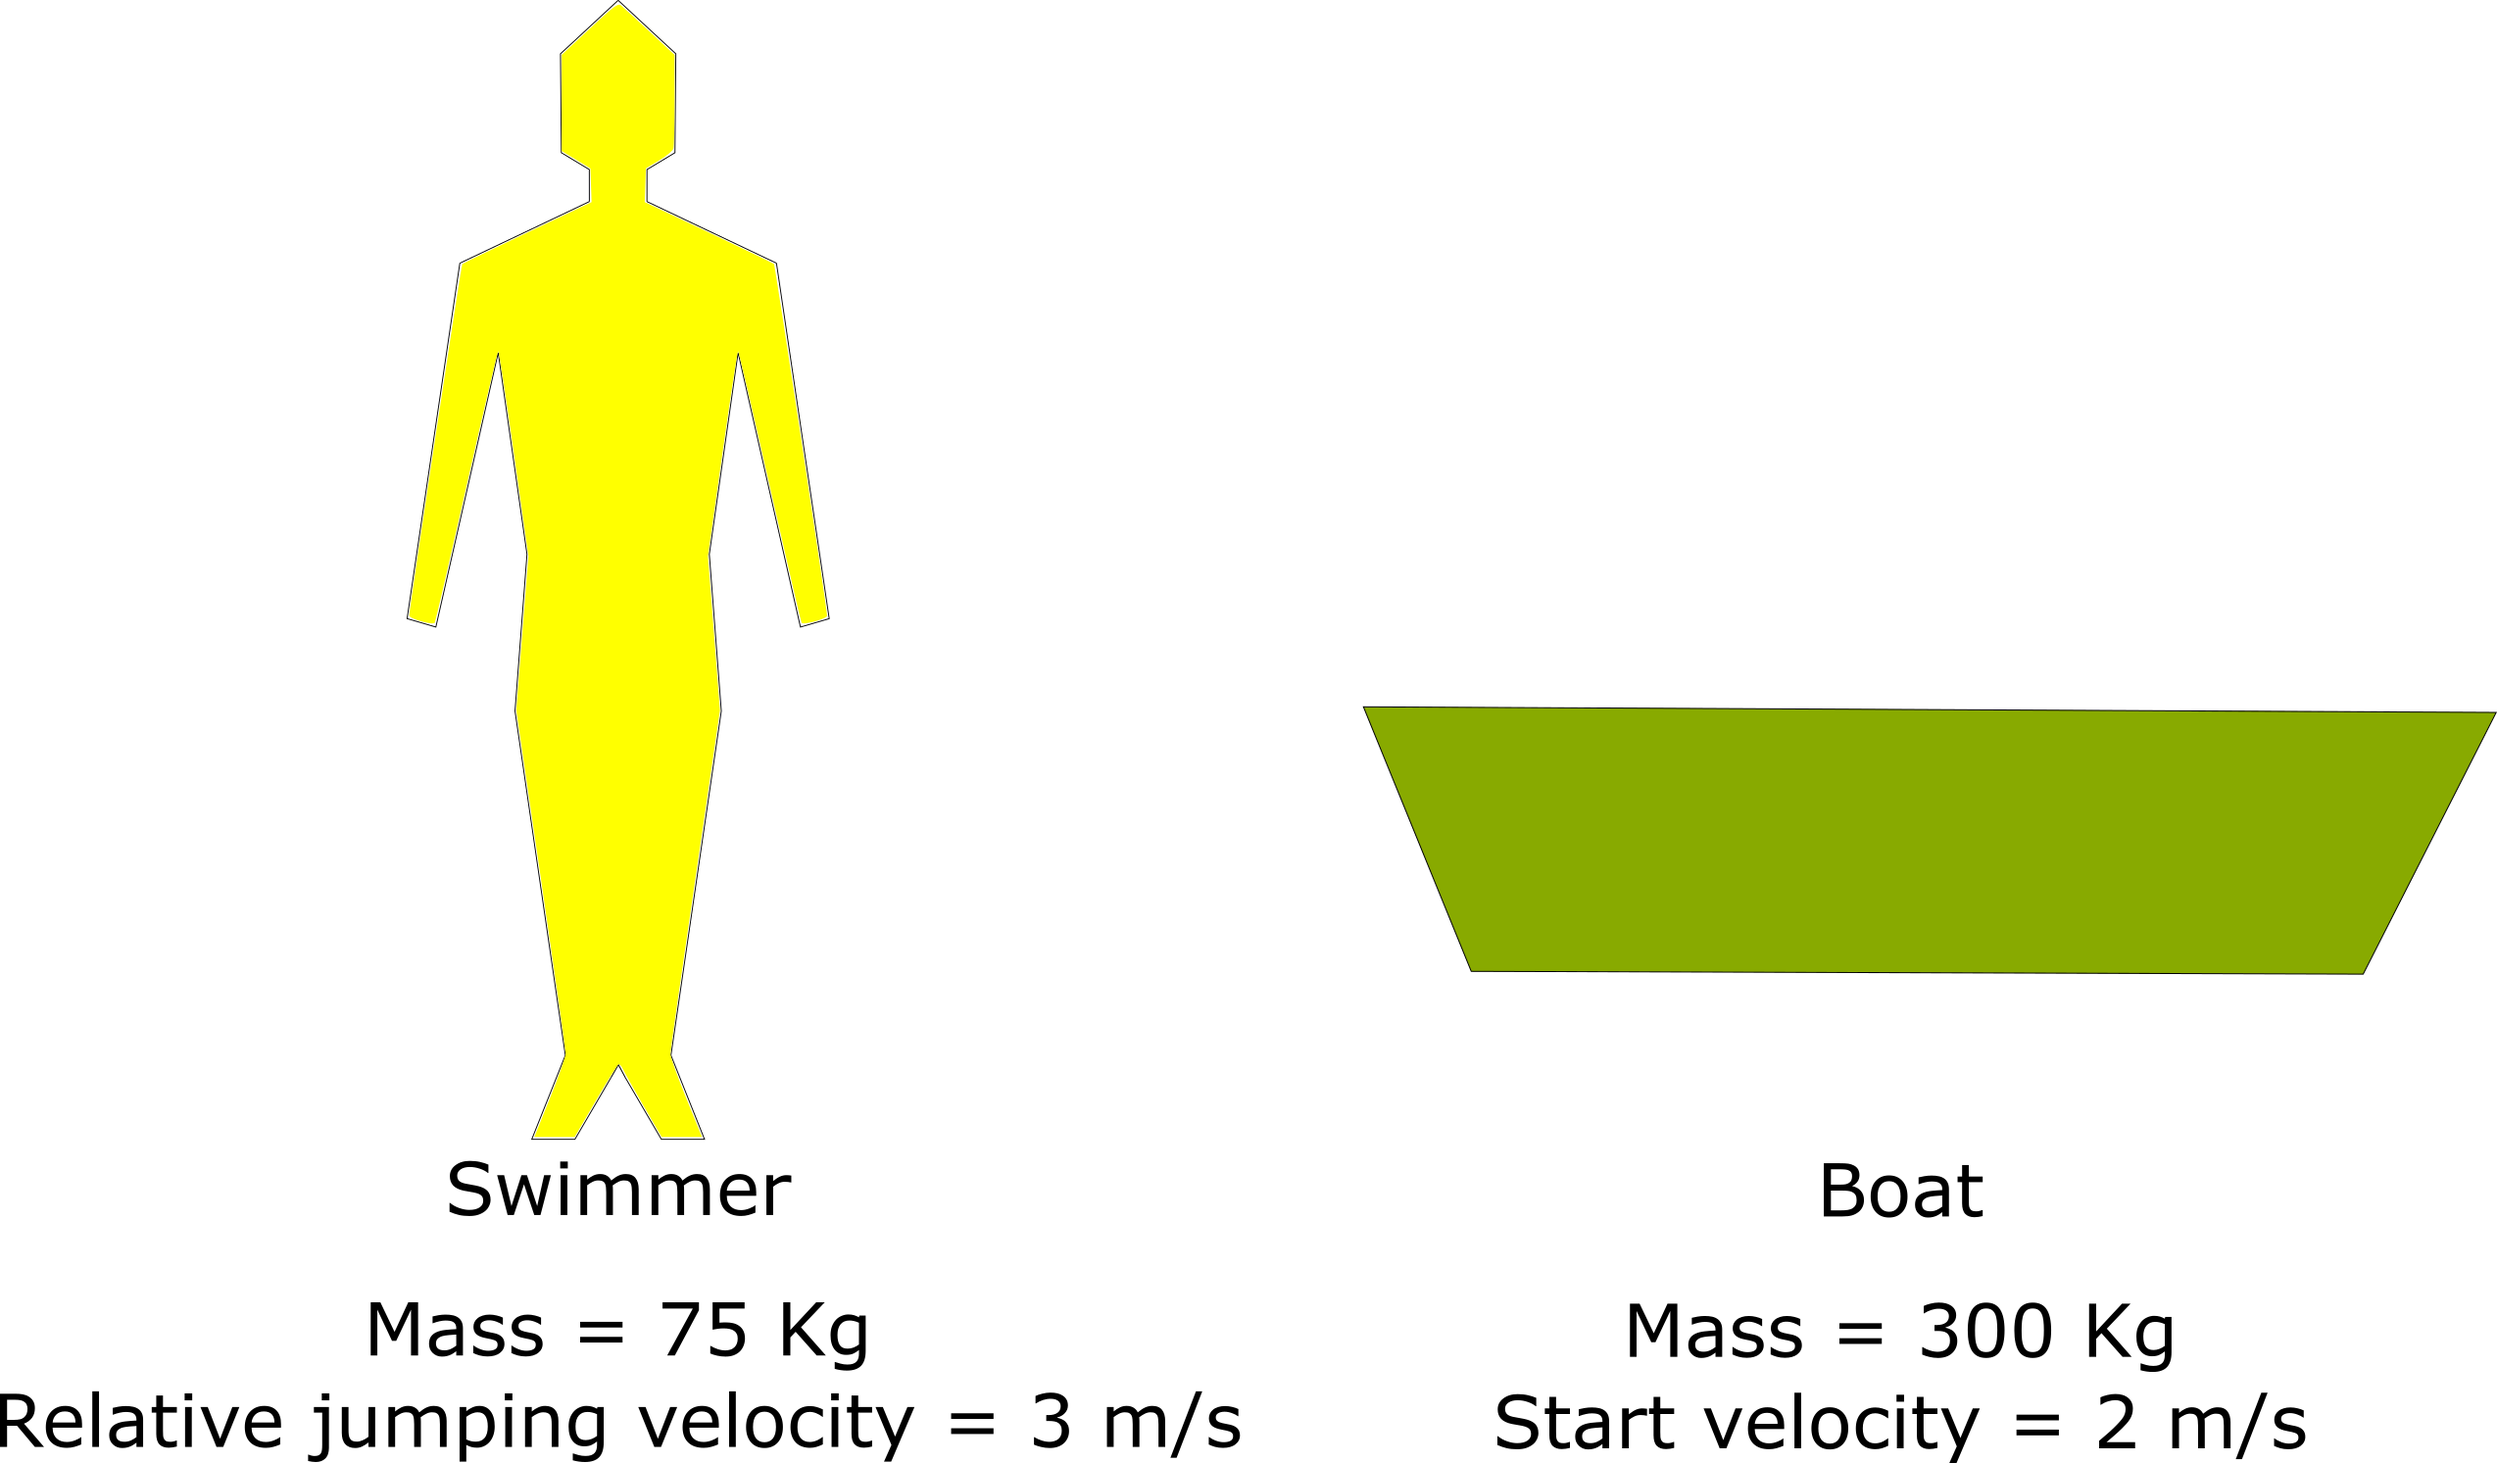
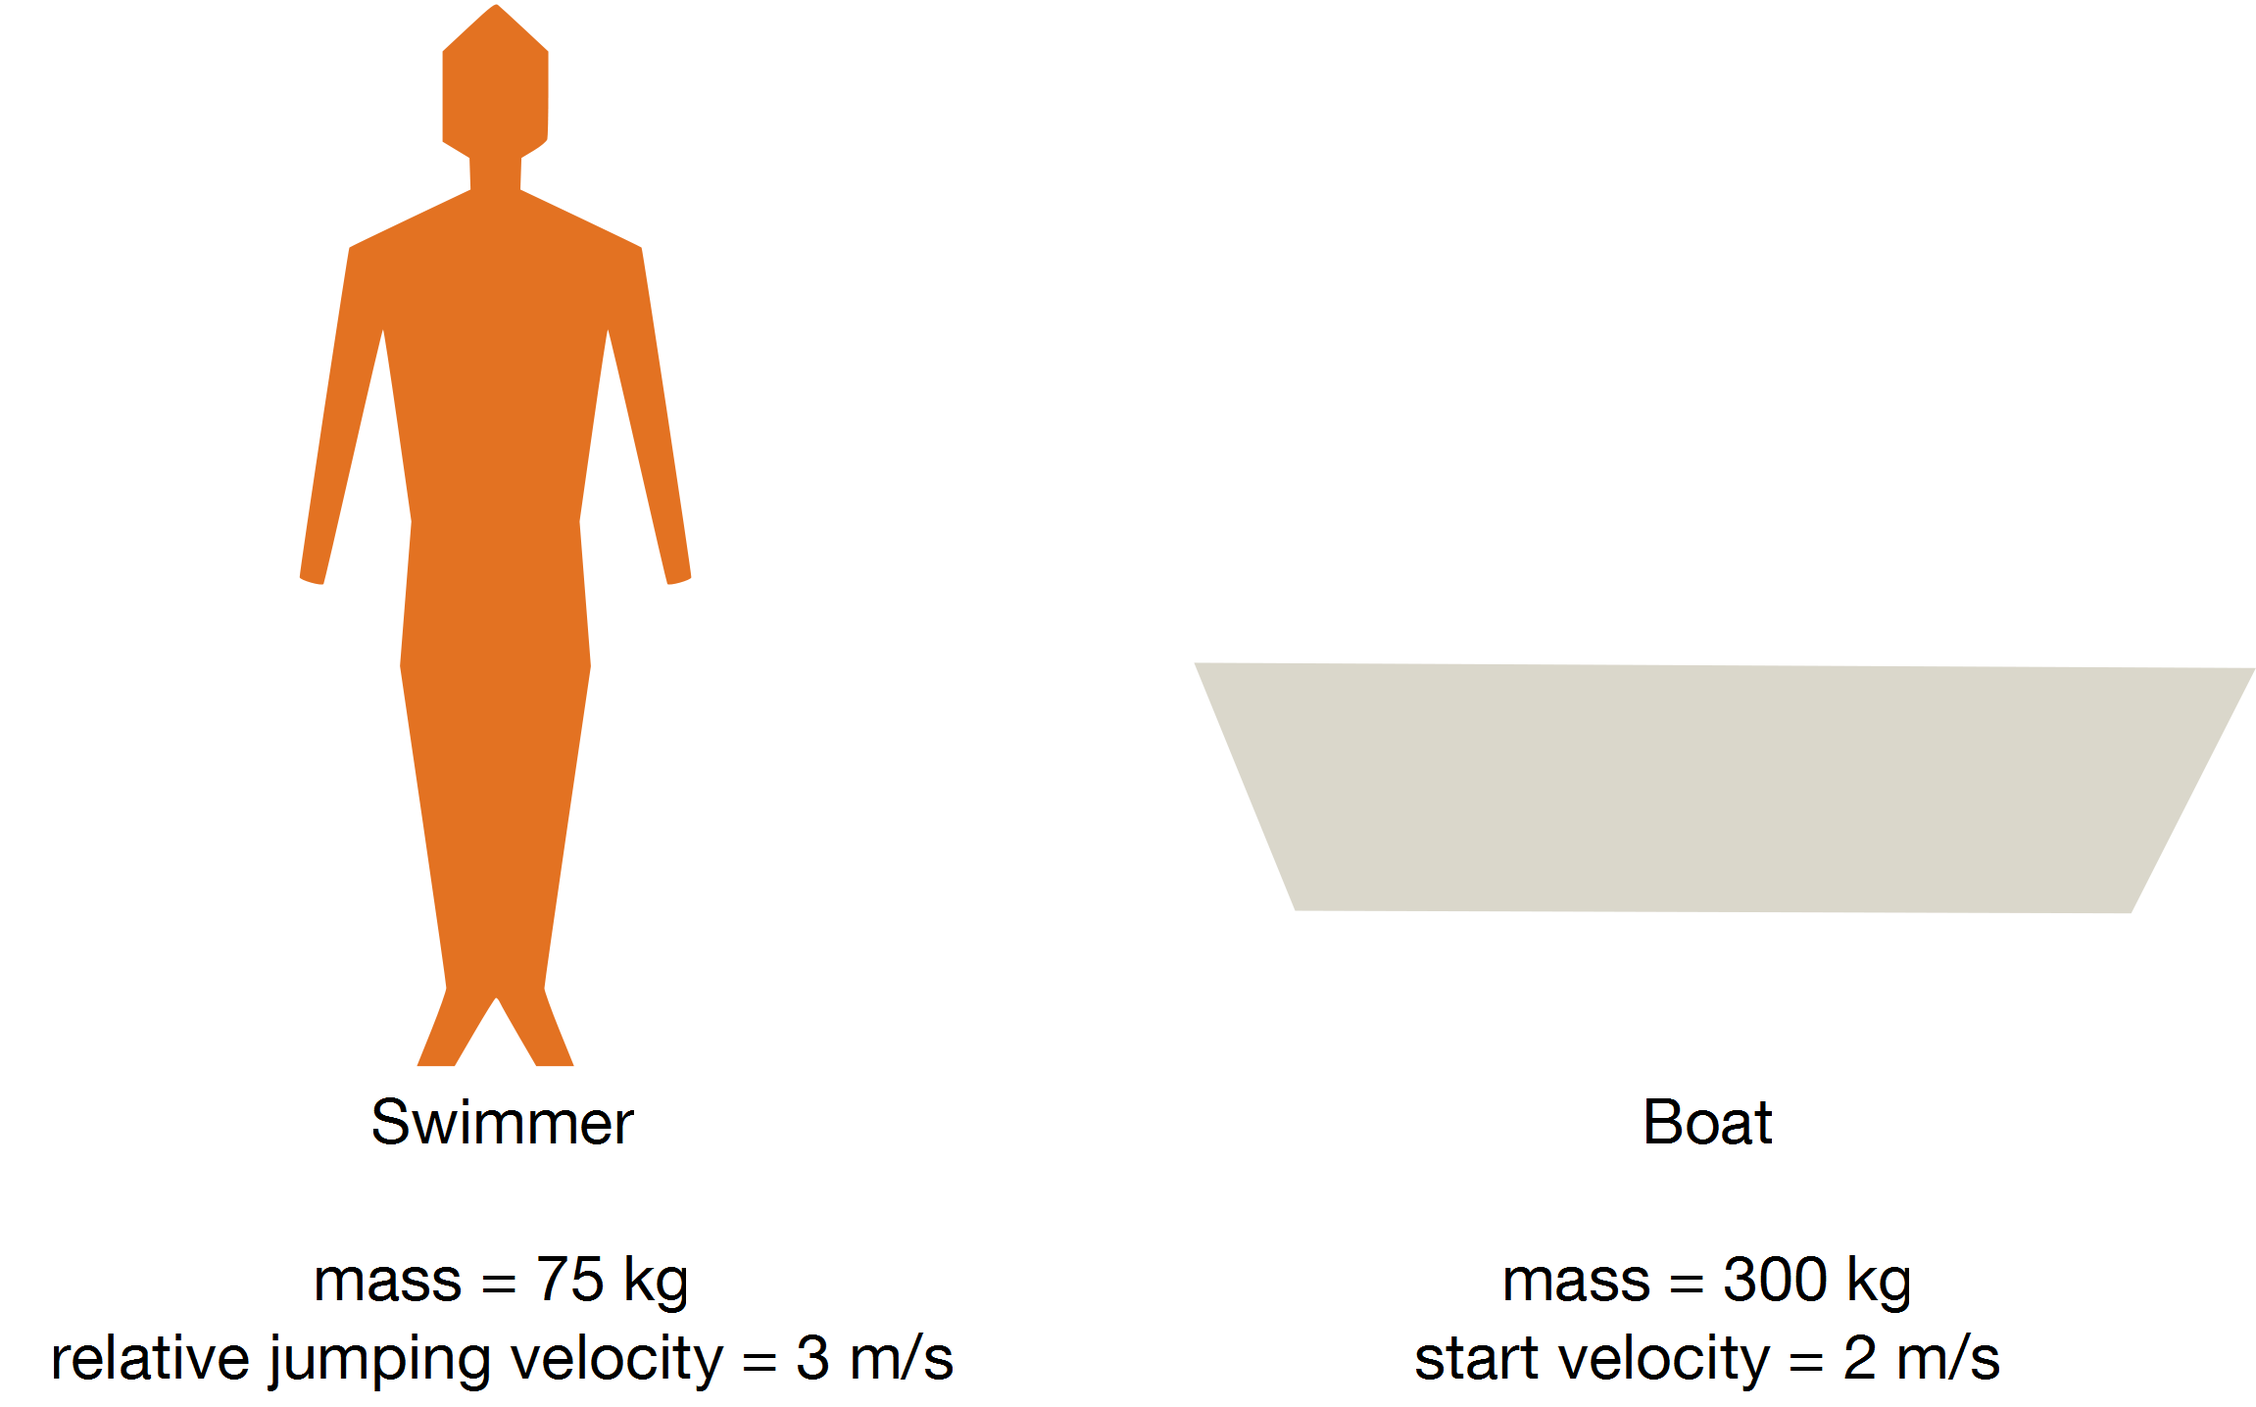
Finalization of app: - removed play botton bug - improved colors - improved description - improved layout

diff --git a/Boat_with_three_swimmers/description.html b/Boat_with_three_swimmers/description.html
@@ -6,6 +6,13 @@ h1 {
     font-size: 1.8em;
     text-transform: uppercase;
 }
+h2 {
+    margin: 1em 0 0 0;
+    color: #2e484c;
+    font-family: 'Julius Sans One', sans-serif;
+	font-size: 1.2em;
+    text-transform: uppercase;
+}
 a:link {
     font-weight: bold;
     text-decoration: none;
@@ -33,7 +40,7 @@ code {
 <h1>Boat with Swimmers on Board</h1>
 
 <p>
-In the following app, The moving boat with its swimmers on board represent the principle of conservation of momentum; that is the total momentum of the system (system here means both the boat and the swimmers) is conserved. When one of the swimmers jumps to the right, it recieved momentum to the right; however, the boat at the same instant recieves the same amount of momentum in the left direction, which results eventually to a zero additional momentum.
+The following app with the moving boat and its jumping swimmers on board represents the principle of conservation of momentum. The total momentum of the system (both the boat and the swimmers) is conserved. When one of the swimmers jumps to the right, it recieves momentum to the right. However, the boat (with the remaining swimmers on board) has to receive at the same instant the same amount of momentum in the left direction in order to maintain the same total momentum. The boat gets therefore accelerated. This acceleration is the bigger the less people are still on board.
 </p>
 
 <p>
@@ -41,14 +48,15 @@ In this application, the following interactivities have been modelled:
 </p>
 
 <p>
------ The application can be paused, reset, and re-played countless number of times
+- The application can be paused, reset, and re-played countless number of times
 </p>
 <p>
------ The number of swimmers on board can be modified whenerver the application is paused or reset using the slider of "Number of swimmers on board" at the bottom left
+- The number of swimmers on board can be modified whenerver the application is paused or reset using the slider of "Number of swimmers on board" at the bottom left
 </p>
 <p>
------ The information regarding the velocities of both boat and swimmers can be found in the velocity diagram below.
+- Information regarding the velocities of both boat and swimmers can be found in the velocity diagram below.
 </p>
+<h2>Velocity Diagram</h2>
 <p>
------ In the velocity diagram and under each set of arrows, the name of the corresponding identity is written. For the swimmers, The black arrow indicates the boat velocity which the swimmer jumped from; the yellow arrow indicades the relative jumping velocity of the swimmer with respect to the boat; the third arrow is colored based on the color of its corresponding swimmer, and it indicades the final absolute velocity of the swimmer after jumping. For the boat, the black arrow indicades the absolute velocity of the boat, and the colored arrows indicade the added velocity from the jumping swimmers (arrow colors correspond to the swimmers).
+Under each set of arrows, the name of the corresponding identity is written. For the swimmers, The black arrow indicates the boat velocity which the swimmer jumped from. The grey arrow indicades the relative jumping velocity of the swimmer with respect to the boat. The third arrow is colored based on the color of its corresponding swimmer, and it indicades the final absolute velocity of the swimmer after jumping. For the boat, the black arrow indicades the absolute velocity of the boat and the colored arrows indicade the added velocity from the jumping swimmers (arrow colors correspond to the swimmers).
 </p>

diff --git a/Boat_with_three_swimmers/main.py b/Boat_with_three_swimmers/main.py
@@ -60,7 +60,7 @@ dt = 0.05
 # Water information
 waterX = np.array( [xMin,xMin,xMax,xMax] )
 waterY = np.array( [yMin,yMax/3,yMax/3,yMin] )
-scene.patch(waterX, waterY, fill_color="#0033cc")
+scene.patch(waterX, waterY, color="#0073CF")
 
 # Boat information
 mass = 300.0                           # Mass of the boat
@@ -81,11 +81,11 @@ boatY = np.array( [
                   ] )
 startBoatSpeed = 2
 boatSpeed = 2.0
-boatColor = '#cc9900'
+boatColor = '#DAD7CB'
 boatSource = ColumnDataSource(data=dict(x = boatX,
                                         y = boatY,
                                         ))
-scene.patch(x = 'x', y = 'y', fill_color= boatColor, source = boatSource)
+scene.patch(x = 'x', y = 'y', color= boatColor, source = boatSource)
 
 # People information
 
@@ -138,7 +138,7 @@ for person in listPeople:
     listYCoords.append(person.standingPosition[1])
     #listSources.append(ColumnDataSource(data=person.jumpingPath))
     
-swimmers_colors = ['#454545','#FF0000','#00FF00','#0000FF','#999999']
+swimmers_colors = ['#E37222','#A2AD00','#64A0C8','#FFDC00','#C4071B']
     
 personSource = ColumnDataSource(
                                 data=dict(
@@ -148,7 +148,7 @@ personSource = ColumnDataSource(
                                          )         
                                )
 
-scene.patches(xs='x',ys='y',fill_color='c',source =personSource )
+scene.patches(xs='x',ys='y',color='c',source =personSource )
 
 
 boatArrows_sources, swimmerArrows_sources = create_arrows_velocityDiagram(velocity_diagram, swimmers_colors, boatSpeed)
@@ -261,7 +261,7 @@ def updateNoPersons(attr,old,new):
     
 numberPersonsSlider = Slider(
                                  title=u" Number of swimmers on board ", 
-                                 value=1, start=1, end=5, step=1,width=350
+                                 value=1, start=1, end=5, step=1,width=300
                             )
 numberPersonsSlider.on_change('value',updateNoPersons)
 
@@ -310,7 +310,10 @@ def reset ():
     else:
         curdoc().remove_periodic_callback(move_boat)
         Active = False
-    
+
+    #Reset Play Button
+    play_button.label = "Play"
+
     # Reset the coordinates defining the boat in its source data file
     boatSource.data = dict(x = boatX, y = boatY)
     boatSpeed = startBoatSpeed
@@ -397,7 +400,7 @@ def jump ():
                 # Start plotting the path of the person's own jump
                 scene.ellipse(
                               x='x',y='y',width=0.1,height=0.1,
-                              color="#0065BD",
+                              color="#005293",
                               source=listSources[counter]
                              )
                 break
@@ -422,12 +425,13 @@ description_filename = join(dirname(__file__), "description.html")
 description = Div(text=open(description_filename).read(), render_as_text=False, width=600)
 
 area_image = Div(text="""
+<h2>
+Technical Information for Boat and Swimmers
+</h2>
 <p>
 <img src="/Boat_with_three_swimmers/static/images/High_resolution_picture.png" width=400>
 </p>
-<p>
-Technical Information for Boat and Swimmers
-</p>""", render_as_text=False, width=400)
+""", render_as_text=False, width=400)
 
 curdoc().add_root(
                   column(
@@ -441,6 +445,7 @@ curdoc().add_root(
                             ),
                          Spacer(height=50),
                          scene,
+                         Spacer(height=50),
                          row(
                              column(
                                     numberPersonsSlider,
@@ -449,6 +454,7 @@ curdoc().add_root(
                                     jump_button,
                                     reset_button
                                    ),
+                             Spacer(width=100),
                              velocity_diagram,
                             )
                         )

diff --git a/Boat_with_three_swimmers/Person.py b/Boat_with_three_swimmers/Person.py
@@ -121,7 +121,7 @@ def create_arrows_velocityDiagram( diagram, colors, boatSpeed ):
         
         relativeVelocityArrow = Arrow(    
                                             end=OpenHead(
-                                                         line_color="#FFCC00",
+                                                         line_color="#DAD7CB",
                                                          line_width=3,
                                                          size=5
                                                         ),
@@ -129,7 +129,7 @@ def create_arrows_velocityDiagram( diagram, colors, boatSpeed ):
                                             y_start=['ys'][0],
                                             x_end=['xe'][0], 
                                             y_end=['ye'][0], 
-                                            line_color = "#FFCC00",
+                                            line_color = "#DAD7CB",
                                             source=swimmerArrows_sources[i][0]
                                         ) 
         absoluteVelocityArrow = Arrow(    
@@ -175,31 +175,31 @@ def create_arrows_velocityDiagram( diagram, colors, boatSpeed ):
                               ))
     diagram.add_layout( Label(
                                   x=10, y=-2,
-                                  text='Black Swimmer',
-                                  text_color='black',text_font_size="8pt",
-                                  level='glyph',text_baseline="middle",text_align="center",
-                              ))
-    diagram.add_layout( Label(
-                                  x=15, y=-2,
-                                  text='Red Swimmer',
-                                  text_color='black',text_font_size="8pt",
-                                  level='glyph',text_baseline="middle",text_align="center",
-                              ))
-    diagram.add_layout( Label(
-                                  x=20, y=-2,
                                   text='Orange Swimmer',
                                   text_color='black',text_font_size="8pt",
                                   level='glyph',text_baseline="middle",text_align="center",
                               ))
     diagram.add_layout( Label(
-                                  x=25, y=-2,
+                                  x=15, y=-2,
+                                  text='Green Swimmer',
+                                  text_color='black',text_font_size="8pt",
+                                  level='glyph',text_baseline="middle",text_align="center",
+                              ))
+    diagram.add_layout( Label(
+                                  x=20, y=-2,
                                   text='Blue Swimmer',
                                   text_color='black',text_font_size="8pt",
                                   level='glyph',text_baseline="middle",text_align="center",
                               ))
     diagram.add_layout( Label(
+                                  x=25, y=-2,
+                                  text='Yellow Swimmer',
+                                  text_color='black',text_font_size="8pt",
+                                  level='glyph',text_baseline="middle",text_align="center",
+                              ))
+    diagram.add_layout( Label(
                                   x=30, y=-2,
-                                  text='Grey Swimmer',
+                                  text='Red Swimmer',
                                   text_color='black',text_font_size="8pt",
                                   level='glyph',text_baseline="middle",text_align="center",
                               ))
